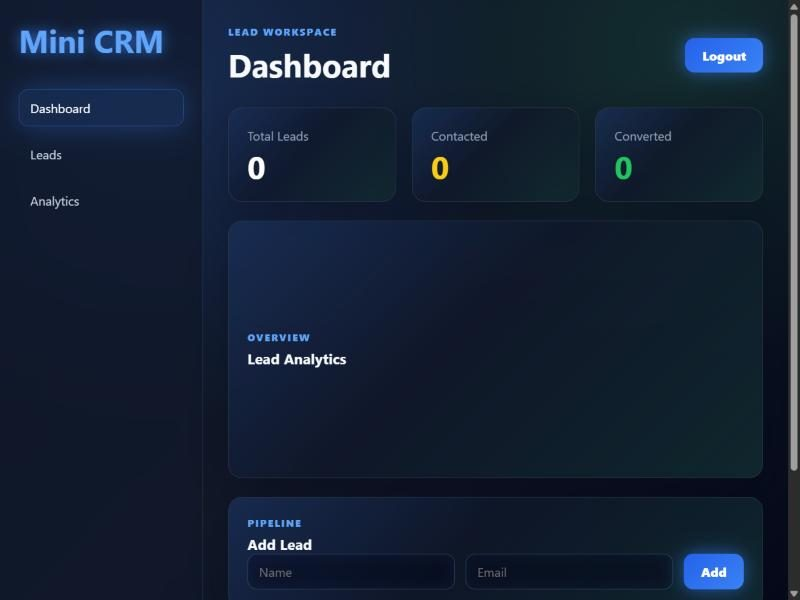
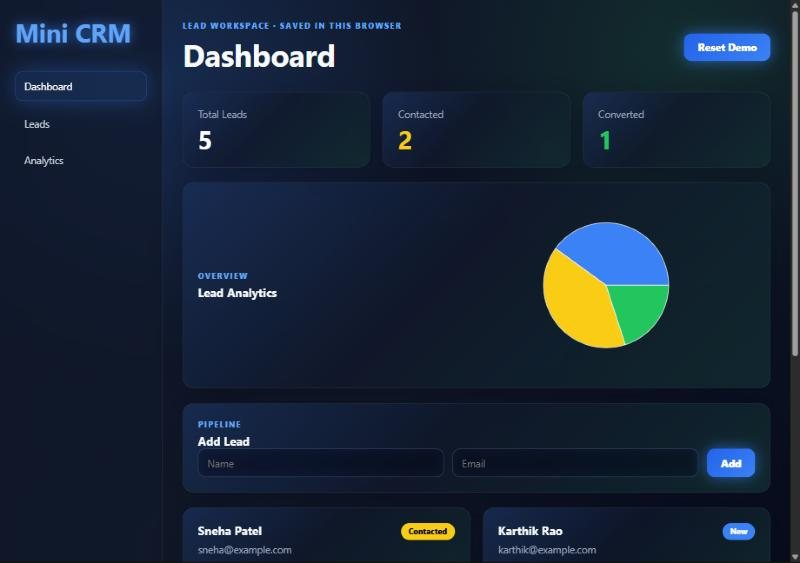
Mini CRM: live demo button, localStorage stack, new screenshot; 03 live demos

diff --git a/index.html b/index.html
@@ -96,7 +96,7 @@
             <span class="label">Projects built</span>
           </li>
           <li class="stat" data-reveal>
-            <span class="stat__num">02</span>
+            <span class="stat__num">03</span>
             <span class="label">Live demos</span>
           </li>
           <li class="stat" data-reveal>
@@ -132,7 +132,7 @@
                 <p class="label job__built-title">Projects built during the internship</p>
                 <ol class="job__built">
                   <li><a href="https://github.com/akki07-hub/FUTURE_FS_01" target="_blank" rel="noopener noreferrer"><span class="label">01</span> Personal portfolio <span class="job__built-note">(this website)</span> <span aria-hidden="true">&nearr;</span></a></li>
-                  <li><a href="#mini-crm"><span class="label">02</span> Mini CRM <span class="job__built-note">React &middot; Express &middot; MongoDB</span> <span aria-hidden="true">&darr;</span></a></li>
+                  <li><a href="#mini-crm"><span class="label">02</span> Mini CRM <span class="job__built-note">React &middot; Recharts</span> <span aria-hidden="true">&darr;</span></a></li>
                   <li><a href="#cxr-fitness"><span class="label">03</span> CXR Fitness Club <span class="job__built-note">Business website</span> <span aria-hidden="true">&darr;</span></a></li>
                 </ol>
                 <p class="job__cert label">Certificate of completion &middot; ID <span translate="no">FIT/APR26/FS14703</span></p>
@@ -313,18 +313,19 @@
                 live counts and a pie chart.
               </p>
               <ul class="project__points">
-                <li>Express REST API with validation, storing leads in MongoDB</li>
-                <li>Dashboard, Leads and Analytics views with clear error messages</li>
+                <li>Works instantly with no sign-up: leads are saved in the browser with localStorage</li>
+                <li>Dashboard, Leads and Analytics views, input validation and a one-click demo reset</li>
               </ul>
               <ul class="stack" translate="no" aria-label="Technologies">
-                <li>React</li><li>Express</li><li>MongoDB</li><li>Recharts</li>
+                <li>React</li><li>Vite</li><li>Recharts</li><li>localStorage</li>
               </ul>
               <div class="project__links">
+                <a href="https://akki07-hub.github.io/FUTURE_FS_02/" target="_blank" rel="noopener noreferrer" class="btn" aria-label="Open Mini CRM live demo">Live demo <span aria-hidden="true">&nearr;</span></a>
                 <a href="https://github.com/akki07-hub/FUTURE_FS_02" target="_blank" rel="noopener noreferrer" class="arrow-link" aria-label="View Mini CRM source code on GitHub">Source code <span aria-hidden="true">&nearr;</span></a>
               </div>
             </div>
             <figure class="project__media">
-              <img src="images/mini-crm.jpg" width="800" height="600" alt="Mini CRM dashboard with total, contacted and converted lead counts" loading="lazy" />
+              <img src="images/mini-crm.jpg" width="800" height="563" alt="Mini CRM dashboard with lead counts and a pie chart of lead statuses" loading="lazy" />
             </figure>
           </div>
         </article>
